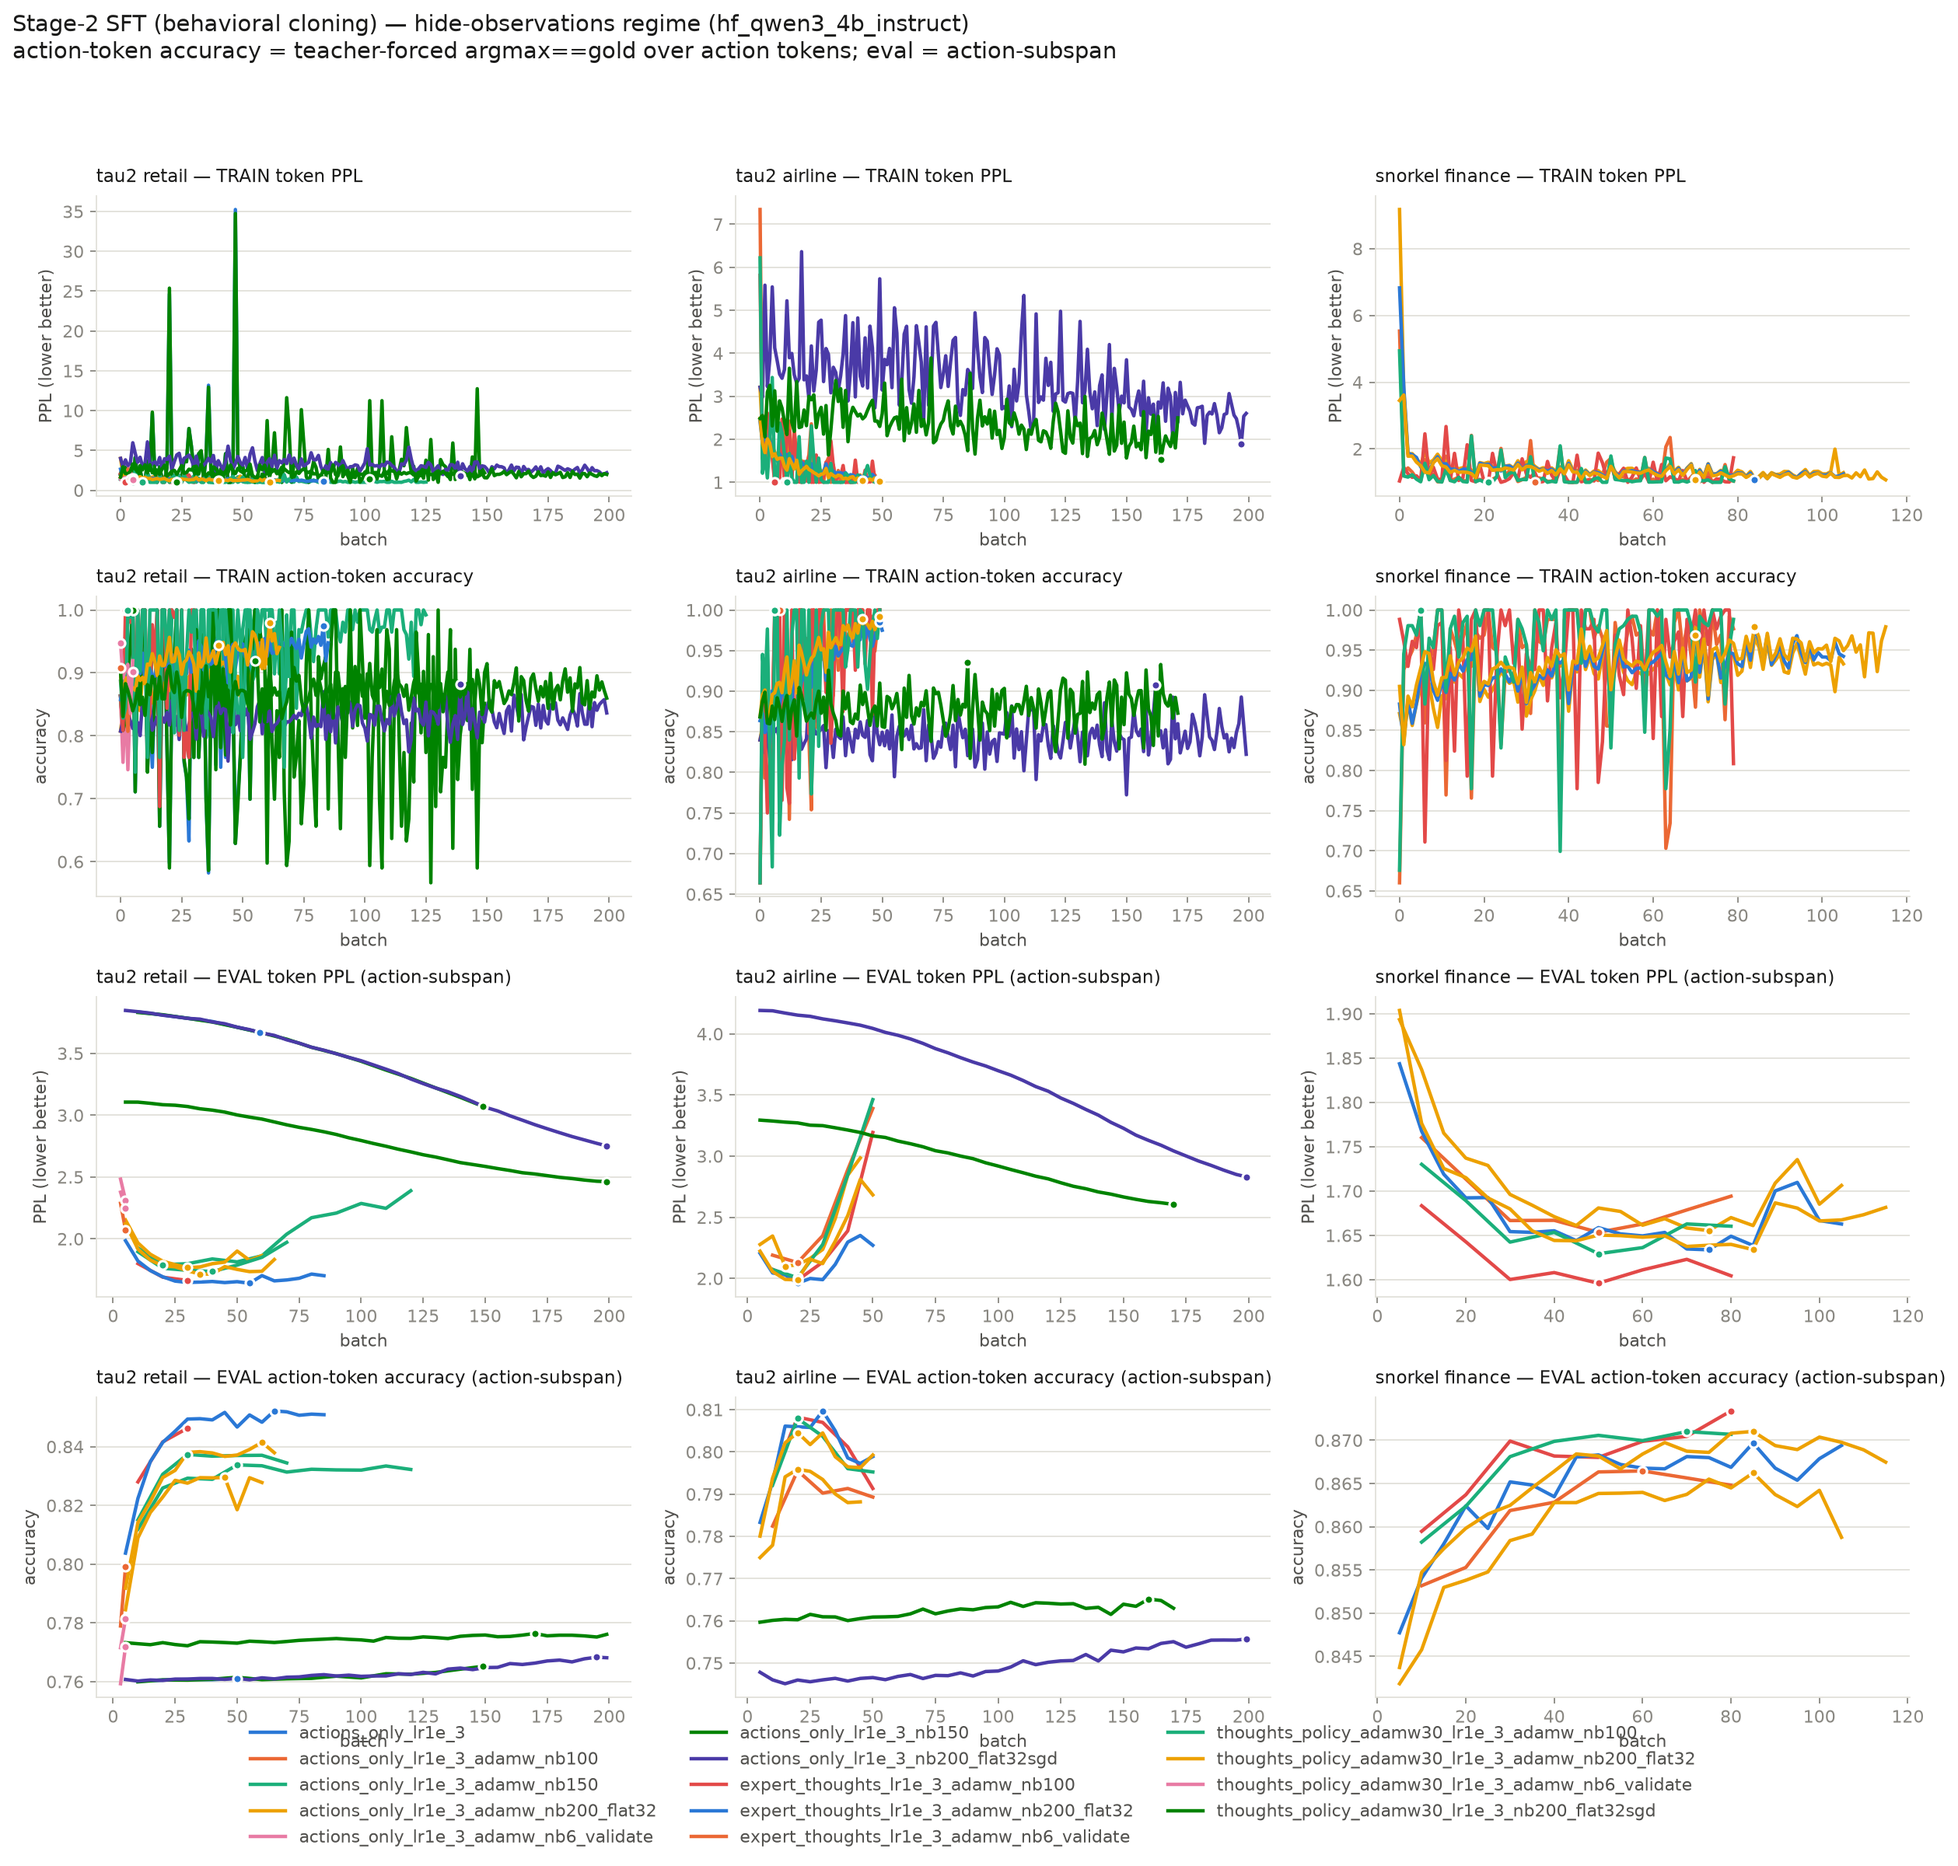
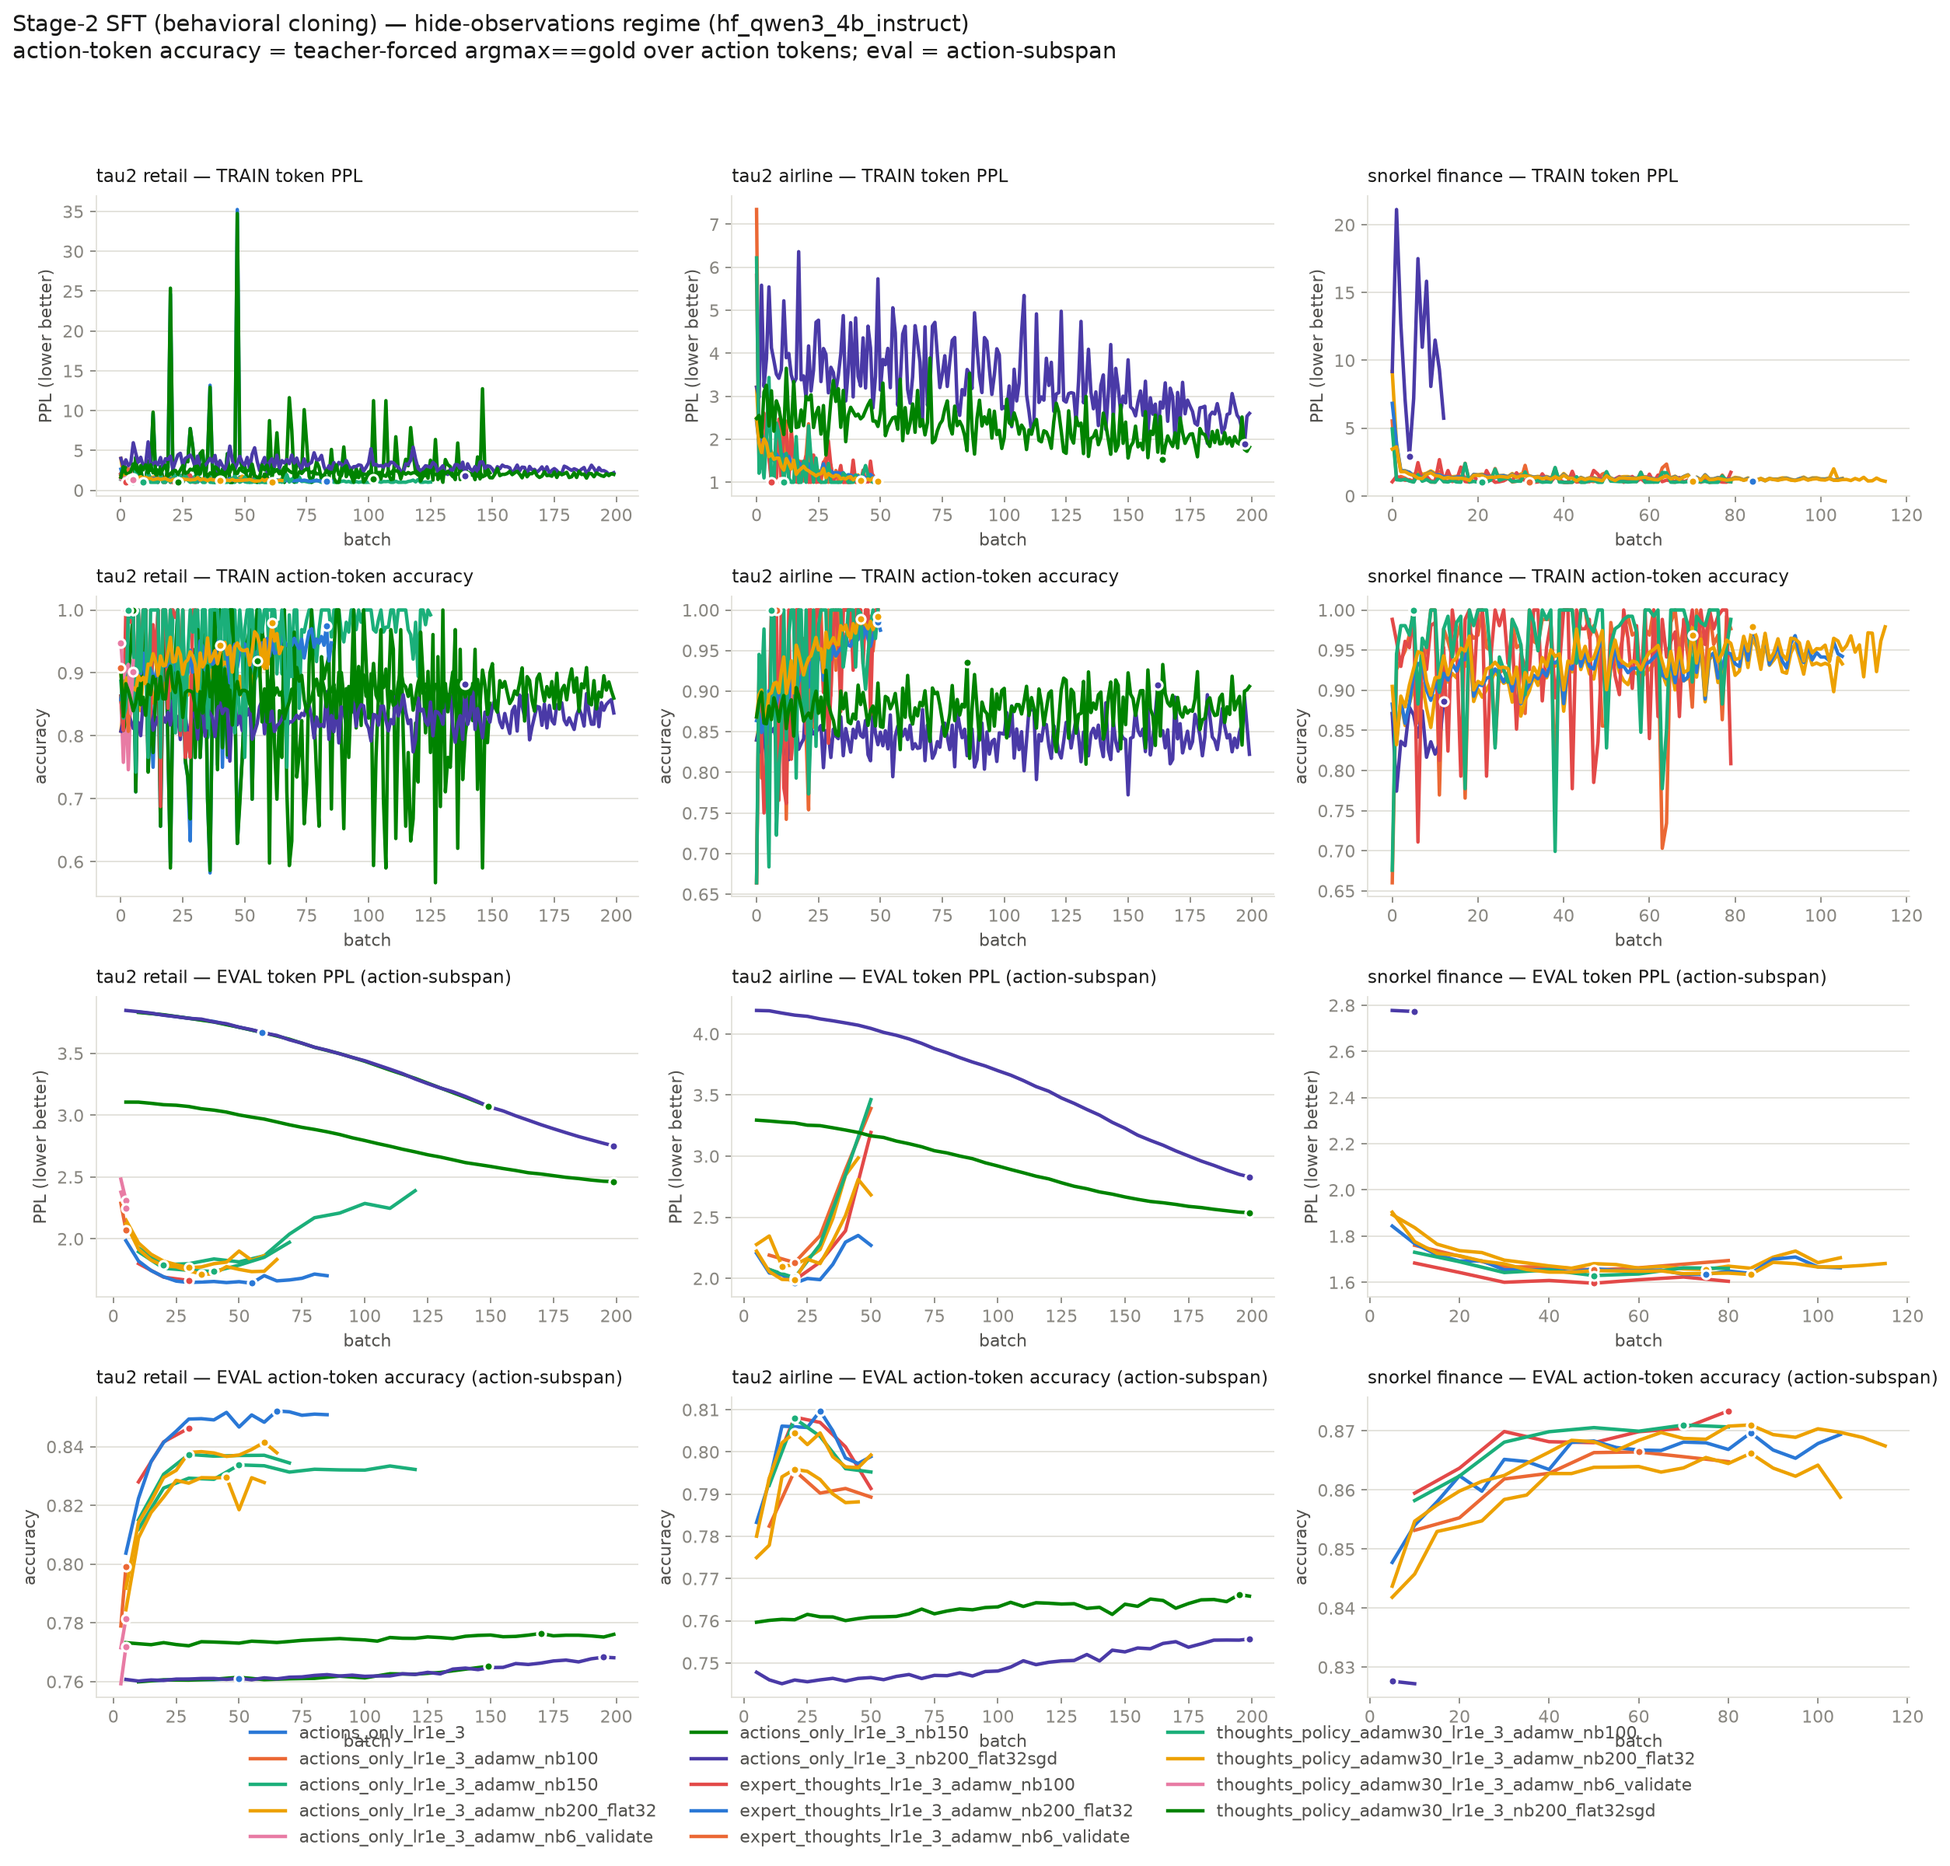
auto: SFT LR sweep results snapshot

diff --git a/notes/cc-5.0-sft-lr-investigation.md b/notes/cc-5.0-sft-lr-investigation.md
@@ -384,17 +384,18 @@ airline/expert_thoughts_lr1e_3_adamw_nb100           hide   50     2.0737 ->   3
 airline/expert_thoughts_lr1e_3_adamw_nb200_flat32    hide   50     2.2052 ->   2.2707  -2.97%  0.7989        1.1013  <running>
 airline/thoughts_policy_adamw30_lr1e_3_adamw_nb100   hide   50     2.0724 ->   3.4621 -67.06%  0.7952        1.0000  <running>
 airline/thoughts_policy_adamw30_lr1e_3_adamw_nb200_flat32 hide   50     2.2230 ->   2.6830 -20.69%  0.7993        1.0701  <running>
-airline/thoughts_policy_adamw30_lr1e_3_nb200_flat32sgd hide  171     3.2944 ->   2.6052  20.92%  0.7630        2.4978  <running>
+airline/thoughts_policy_adamw30_lr1e_3_nb200_flat32sgd hide  199     3.2944 ->   2.5375  22.98%  0.7658        1.8220
 snorkel_finance_split/actions_only_lr1e_3_adamw_nb100 hide   80     1.7603 ->   1.6942   3.75%  0.8648        1.0391  <running>
 snorkel_finance_split/actions_only_lr1e_3_adamw_nb200_flat32 hide  105     1.8934 ->   1.7063   9.88%  0.8588        1.2878  <running>
+snorkel_finance_split/actions_only_lr1e_3_nb200_flat32sgd hide   12     2.7774 ->   2.7728   0.17%  0.8272        5.7310  <running>
 snorkel_finance_split/expert_thoughts_lr1e_3_adamw_nb100 hide   80     1.6835 ->   1.6045   4.69%  0.8734        1.7344  <running>
 snorkel_finance_split/expert_thoughts_lr1e_3_adamw_nb200_flat32 hide  105     1.8436 ->   1.6628   9.80%  0.8694        1.2493  <running>
 snorkel_finance_split/thoughts_policy_adamw30_lr1e_3_adamw_nb100 hide   80     1.7302 ->   1.6604   4.03%  0.8707        1.0391  <running>
 snorkel_finance_split/thoughts_policy_adamw30_lr1e_3_adamw_nb200_flat32 hide  115     1.9037 ->   1.6815  11.67%  0.8675        1.0747  <running>
 
-8/28 arms complete   (Δ% = held-out action-subspan PPL improvement, higher is better)
+9/29 arms complete   (Δ% = held-out action-subspan PPL improvement, higher is better)
 ```
-_last refreshed: 2026-09-02 07:40_
+_last refreshed: 2026-09-02 08:00_
 <!--/RESULTS-->
 
 ## Infrastructure

diff --git a/notes/cc-3.0-snorkel_finance_split_sft_results.md b/notes/cc-3.0-snorkel_finance_split_sft_results.md
@@ -21,6 +21,7 @@ for wordiness rather than for mispredicting the action, which inverts the rankin
 | thoughts_base | full | 2.0637 | 0.8837 | 40 | 2.7097 | 0.8058 | 30 | 0.8326 |
 | actions_only_lr1e_3_adamw_nb100 | hide | 1.6535 | 0.8663 | 50 | 1.6535 | 0.8663 | 50 | 0.0356 |
 | actions_only_lr1e_3_adamw_nb200_flat32 | hide | 1.6554 | 0.8655 | 75 | — | — | — | 0.2118 |
+| actions_only_lr1e_3_nb200_flat32sgd | hide | 2.7728 | 0.8272 | 10 | — | — | — | 0.8418 |
 | actions_only_lr3e_3_nb150 | hide | 1.8930 | 0.8398 | 149 | 1.8930 | 0.8398 | 149 | 0.3245 |
 | actions_only_v3_lr3e_3_nb150 | hide | 1.9282 | 0.8407 | 149 | 1.9282 | 0.8407 | 149 | 0.4563 |
 | expert_thoughts_all_v3_lr3e_3_nb150 | hide | 1.9557 | 0.8413 | 149 | 1.9918 | 0.8336 | 149 | 1.5311 |
@@ -57,6 +58,7 @@ that saved step:
 | thoughts_base | full | 2.0646 | 0.8838 |
 | actions_only_lr1e_3_adamw_nb100 | hide | 1.6535 | 0.8663 |
 | actions_only_lr1e_3_adamw_nb200_flat32 | hide | — | — |
+| actions_only_lr1e_3_nb200_flat32sgd | hide | — | — |
 | actions_only_lr3e_3_nb150 | hide | 1.8930 | 0.8398 |
 | actions_only_v3_lr3e_3_nb150 | hide | 1.9282 | 0.8407 |
 | expert_thoughts_all_v3_lr3e_3_nb150 | hide | 1.9557 | 0.8413 |

diff --git a/notes/cc-3.0-airline_sft_results.md b/notes/cc-3.0-airline_sft_results.md
@@ -32,7 +32,7 @@ for wordiness rather than for mispredicting the action, which inverts the rankin
 | thoughts_base_lr3e_3_nb150 | hide | 2.3981 | 0.7644 | 149 | 2.5832 | 0.7398 | 149 | 0.8685 |
 | thoughts_policy_adamw30_lr1e_3_adamw_nb100 | hide | 2.0055 | 0.8079 | 20 | 2.2383 | 0.7668 | 10 | 0.0872 |
 | thoughts_policy_adamw30_lr1e_3_adamw_nb200_flat32 | hide | 1.9879 | 0.8046 | 20 | — | — | — | 0.0991 |
-| thoughts_policy_adamw30_lr1e_3_nb200_flat32sgd | hide | 2.6052 | 0.7630 | 170 | — | — | — | 1.0825 |
+| thoughts_policy_adamw30_lr1e_3_nb200_flat32sgd | hide | 2.5375 | 0.7658 | 199 | — | — | — | 0.7832 |
 | thoughts_policy_last | hide | 3.4880 | 0.7539 | 20 | 3.9857 | 0.7162 | 20 | 0.4687 |
 | thoughts_policy_lr3e_3_nb150 | hide | 2.3868 | 0.7691 | 149 | 2.6211 | 0.7348 | 149 | 0.8943 |
 | thoughts_base_last | full | 3.3200 | 0.7644 | 30 | 3.8484 | 0.7266 | 30 | 0.8020 |
